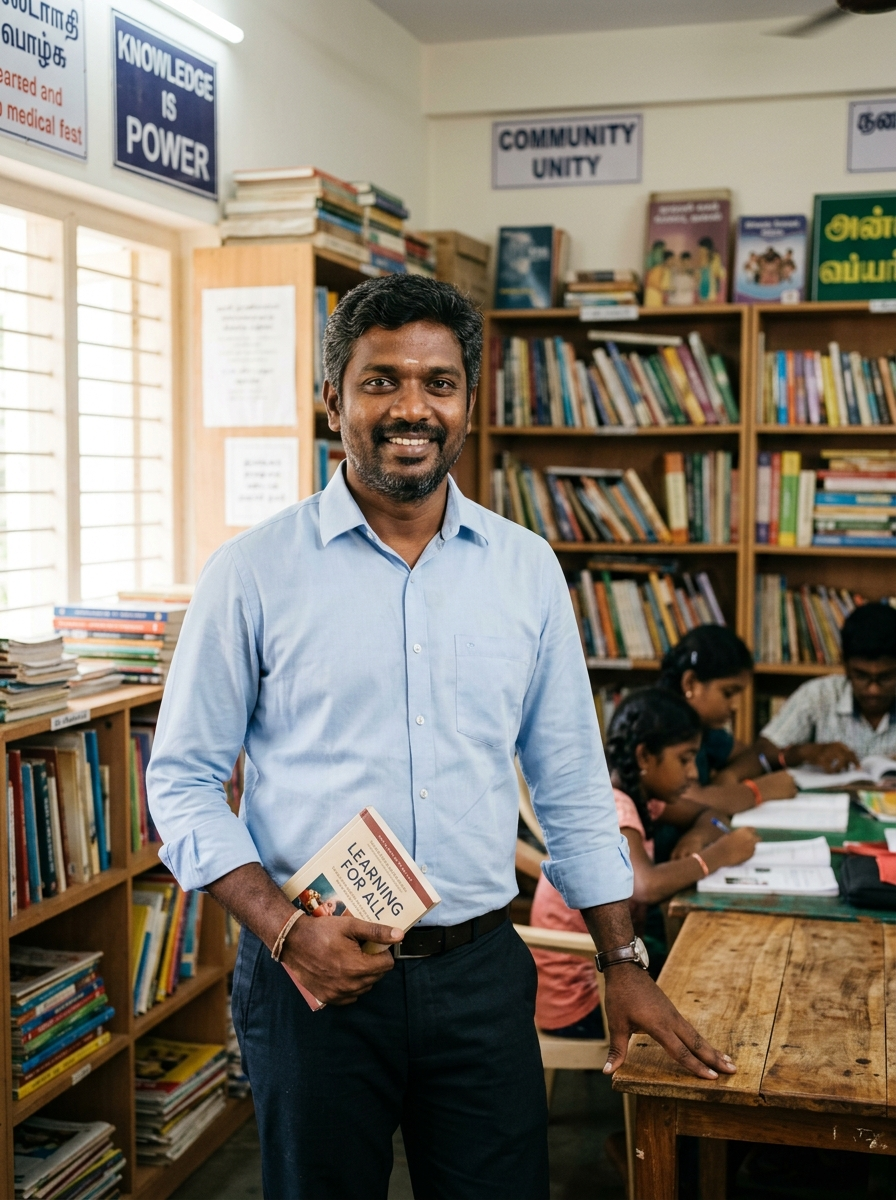
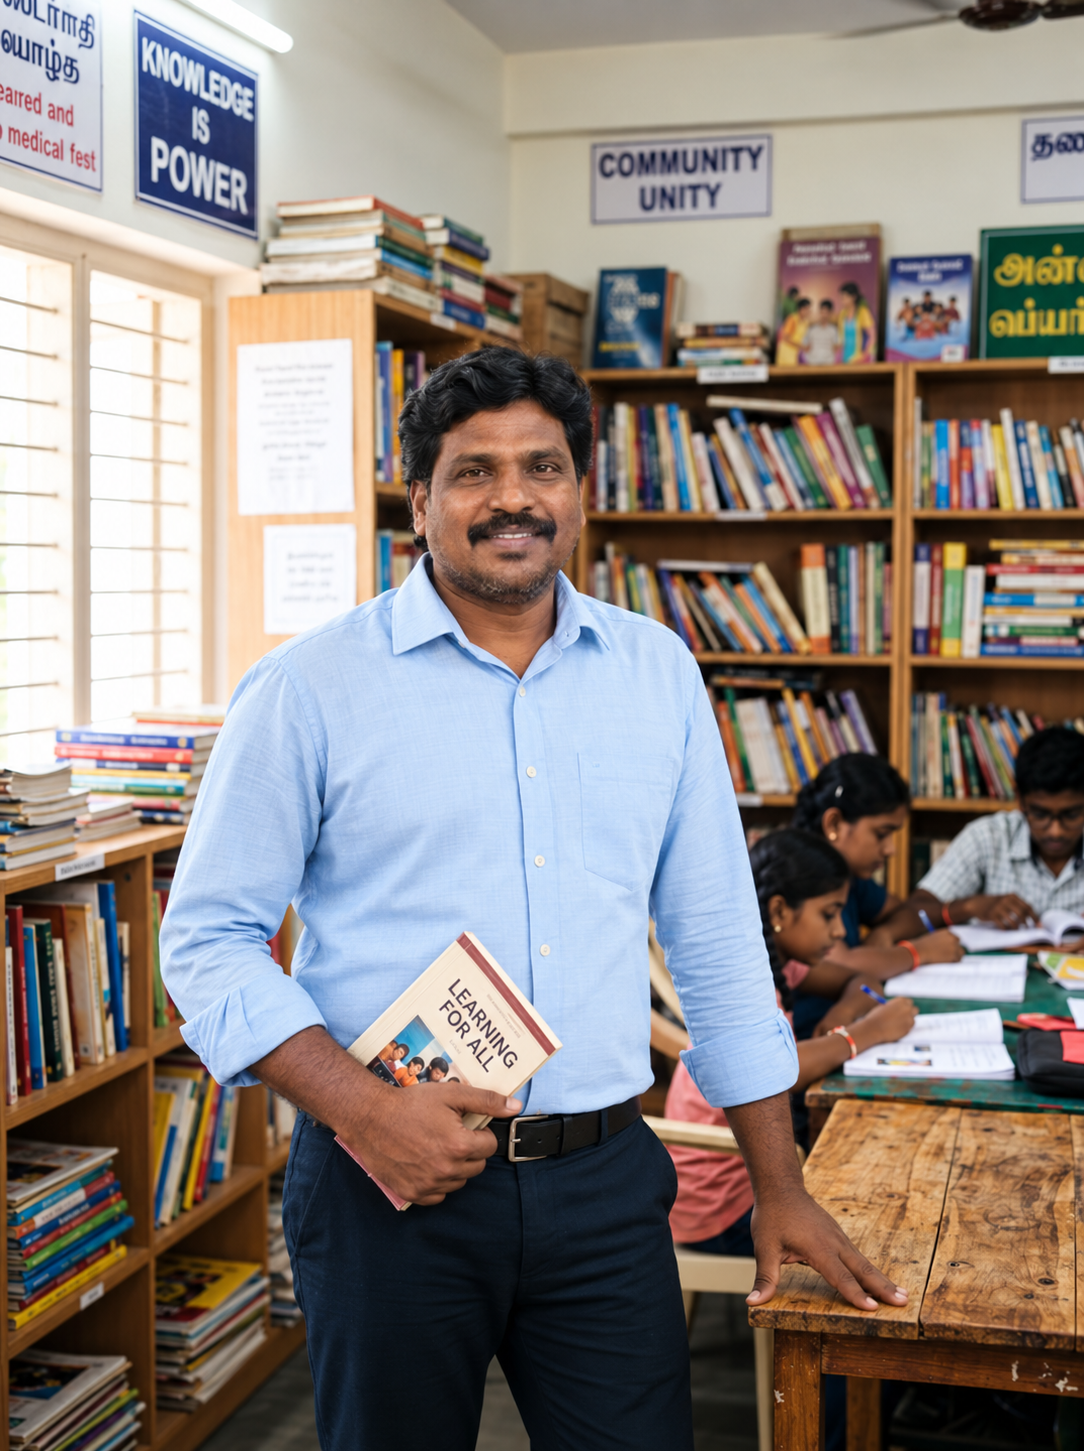
feat(cloudflare): add Cloudflare Pages edge redirects, security headers, and runtime resilience

diff --git a/src/app/api/health/route.ts b/src/app/api/health/route.ts
@@ -13,7 +13,7 @@ export async function GET() {
     const responsePayload = {
       status: "healthy",
       timestamp: new Date().toISOString(),
-      uptimeSeconds: Math.floor(process.uptime()),
+      uptimeSeconds: typeof process?.uptime === "function" ? Math.floor(process.uptime()) : 0,
       environment: process.env.NODE_ENV || "production",
       version: "0.2.0",
       services: {
